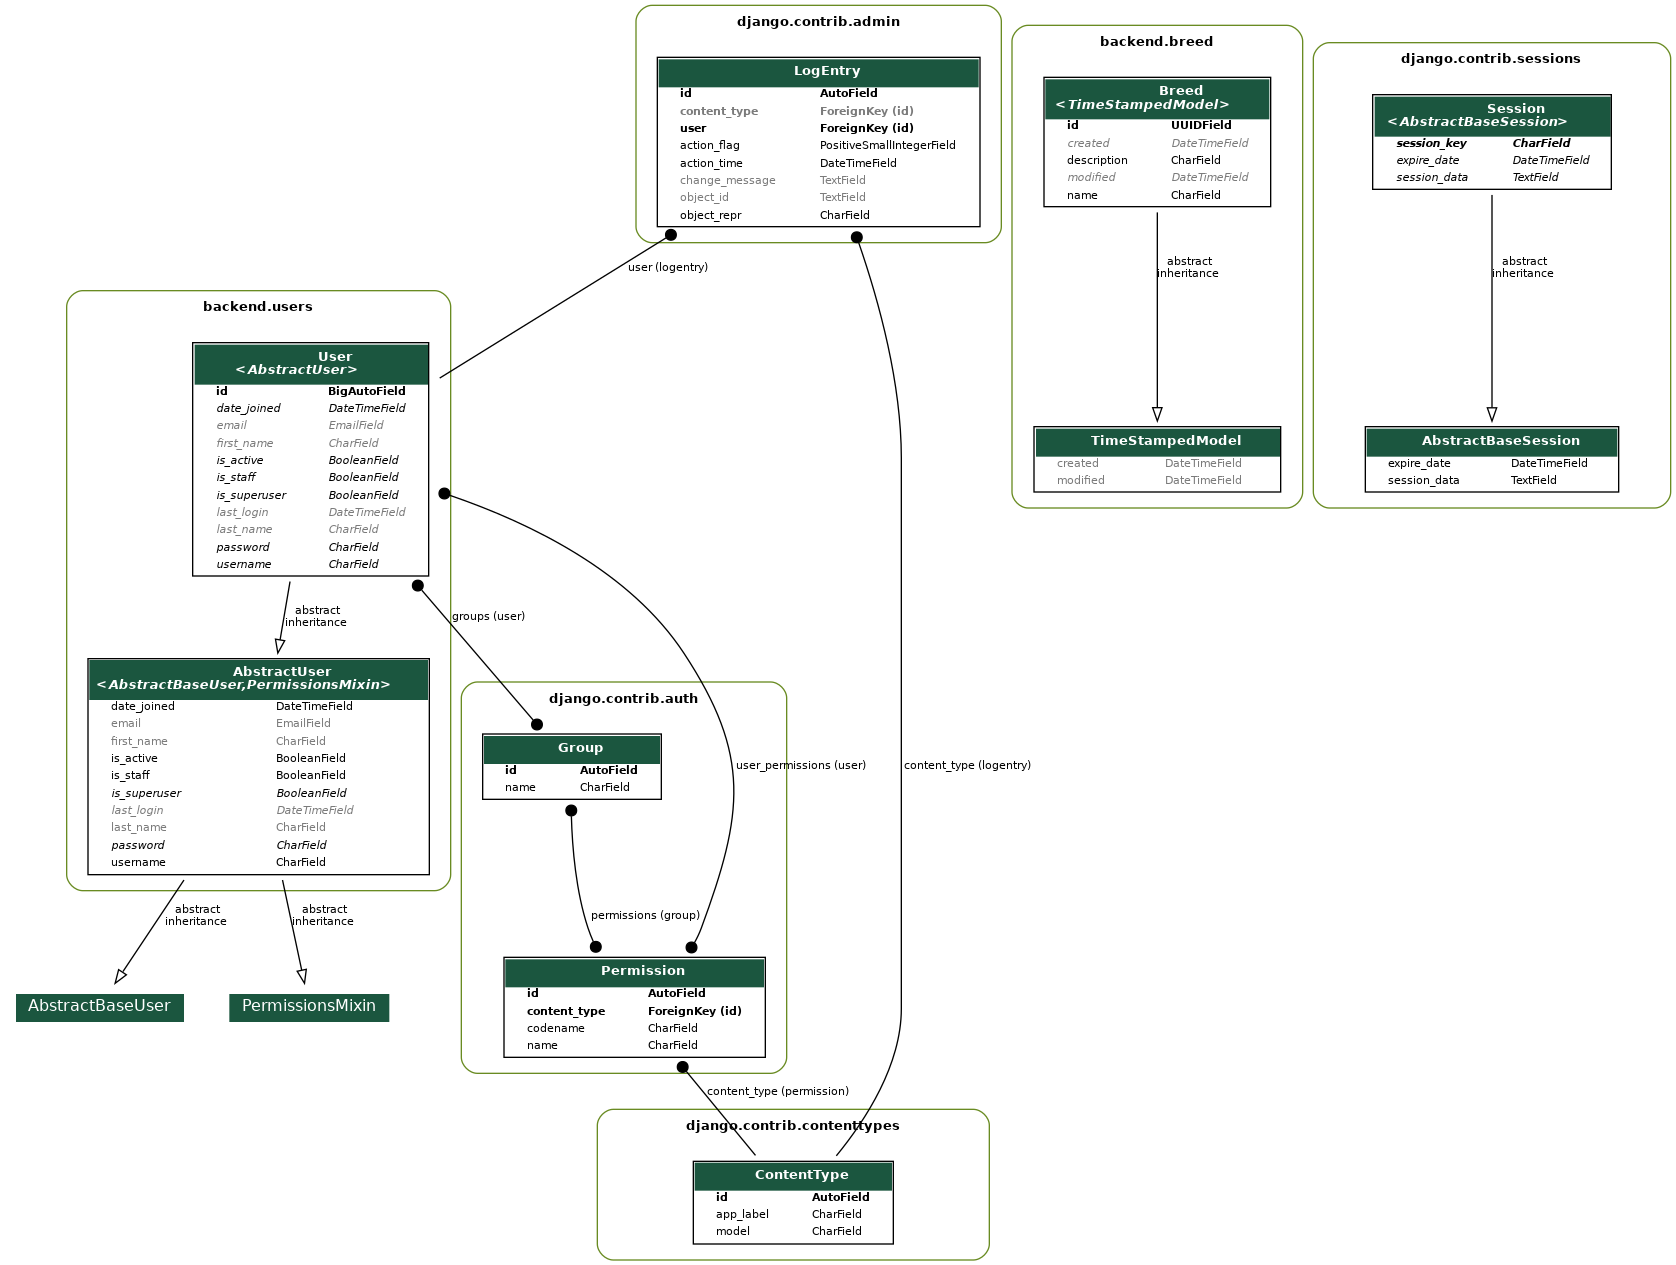
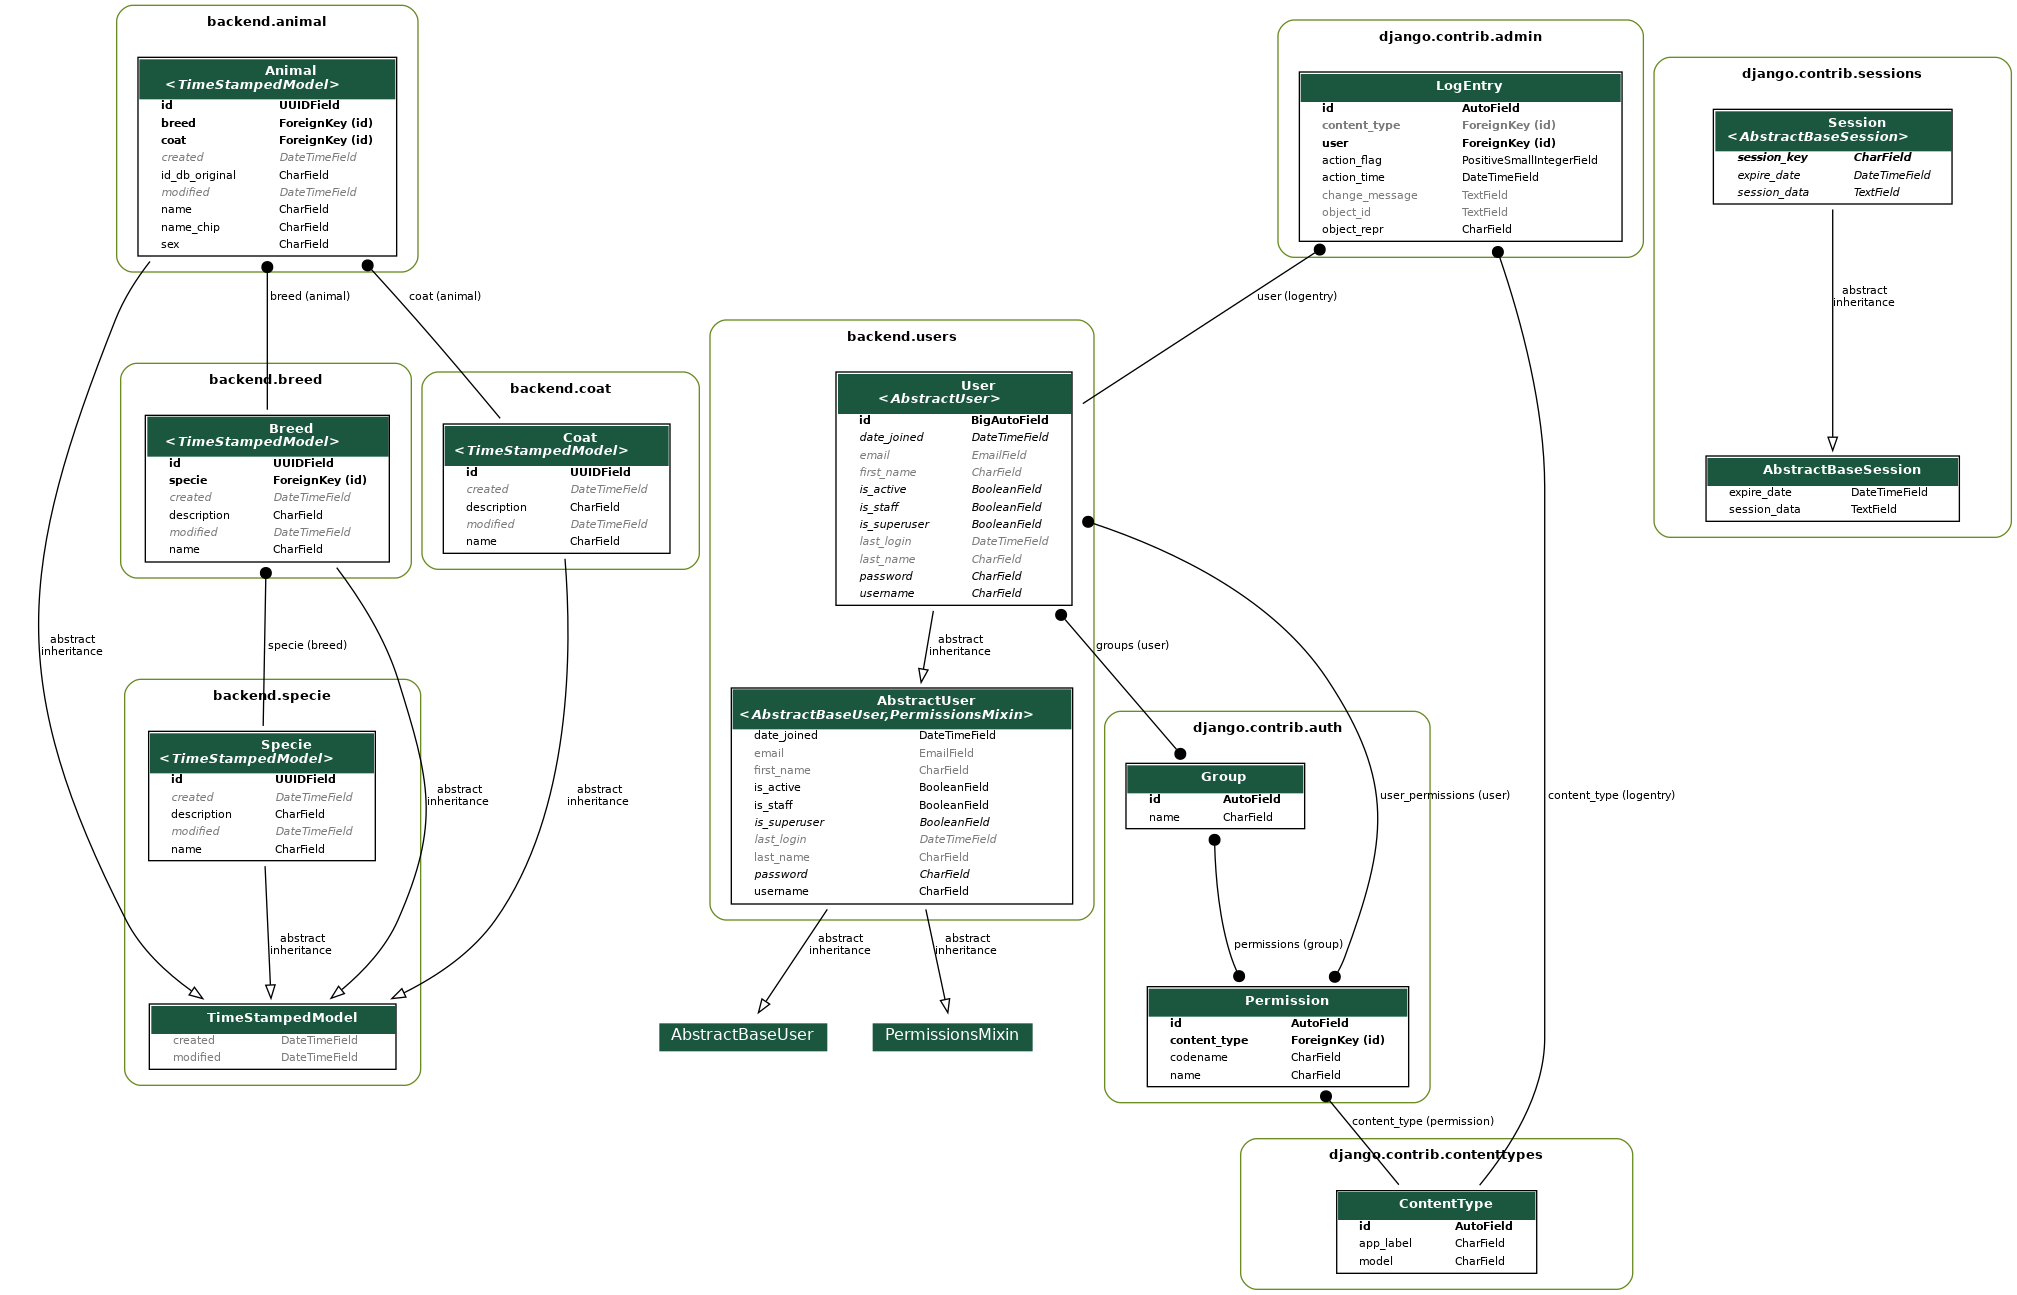
I changed the class diagram and added the owner, phone number and characteristics fields to the animal class.

diff --git a/backend/core/templates/base.html b/backend/core/templates/base.html
@@ -2,8 +2,8 @@
 {% load static %}
 <!DOCTYPE html>
 <html lang="en">
-
-{% load fontawesome_5 %}
+<!-- 
+{% load fontawesome_5 %} -->
 
 <head>
   <meta charset="utf-8">
@@ -23,7 +23,7 @@
   <!-- Font-awesome -->
   <!-- <link rel="stylesheet" href="https://maxcdn.bootstrapcdn.com/font-awesome/4.7.0/css/font-awesome.min.css"> -->
 
-  <!-- <link rel="stylesheet" href="{% static 'css/style.css' %}"> -->
+  <link rel="stylesheet" href="{% static 'css/style.css' %}">
 
   <!-- HTMX -->
   <!-- <script src="https://unpkg.com/htmx.org@1.8.2"></script> -->
@@ -43,6 +43,7 @@
   <!-- <script src="https://cdn.jsdelivr.net/npm/mustache@4.2.0/mustache.min.js"></script> -->
 
 
+
 </head>
 
 <!-- <body hx-headers='{"X-CSRFToken": "{{ csrf_token }}"}'> -->
@@ -53,11 +54,20 @@
   </div>
 
   <!-- jQuery -->
-  <!-- <script src="https://code.jquery.com/jquery-3.4.1.min.js"></script> -->
+  <script src="{% static 'js/jquery-3.7.1.min.js' %}"></script>
+
+  <!-- jQuery Mask Plugin -->
+  <script src="{% static 'js/jquery.mask.min.js' %}"></script>
   <!-- Bootstrap core JS -->
   <!-- <script src="https://cdn.jsdelivr.net/npm/popper.js@1.16.0/dist/umd/popper.min.js"></script> -->
   <!-- <script src="https://stackpath.bootstrapcdn.com/bootstrap/4.4.1/js/bootstrap.min.js"></script> -->
   <!-- <script src="https://unpkg.com/htmx.org@1.6.1"></script> -->
+
+  <script>
+    $(document).ready(function() {
+        $('.phone-mask').mask('(00) 00000-0000');
+    });
+</script>
 
 </body>
 

diff --git a/backend/animal/templates/animal/animal_form.html b/backend/animal/templates/animal/animal_form.html
@@ -24,6 +24,12 @@
                 {% render_field form.name class="form-control" hx-get="/animal/check_animal/" hx-trigger="keyup" hx-target="#animal-out" %}
                 <div id="animal-out"></div>
 
+                <label for="" class=" form-label pt-2">{{ form.owner.label }}</label>
+                {% render_field form.owner class="form-control" %}
+
+                <label for="" class=" form-label pt-2">{{ form.phone_number.label }}</label>
+                {% render_field form.phone_number|add_class:"phone-mask" class="form-control" %}
+
                 <label for="" class=" form-label pt-2">{{ form.id_db_original.label }}</label>
                 {% render_field form.id_db_original class="form-control" %}
 
@@ -38,6 +44,9 @@
 
                 <label for="" class="form-label pt-2">{{ form.sex.label }}</label>
                 {% render_field form.sex class="form-control" %}
+
+                <label for="" class=" form-label pt-2">{{ form.caracteristics.label }}</label>
+                {% render_field form.caracteristics class="form-control" %}
 
                 {{ form.errors.name }}
                 

diff --git a/backend/animal/templates/animal/animal_detail.html b/backend/animal/templates/animal/animal_detail.html
@@ -16,11 +16,14 @@
 
     <div class="container border p-2"> 
         <p><strong>Name:</strong>  {{ object.name }} </p>
+        <p><strong>Owner:</strong>  {{ object.owner }} </p>
+        <p><strong>Phone Number:</strong>  {{ object.phone_number }} </p>
         <p><strong>ID DB Origin:</strong>  {{ object.id_db_original }} </p>
         <p><strong>Name Chip:</strong> {{ object.name_chip }} </p>
         <p><strong>Breed:</strong> {{ object.breed }} </p>
         <p><strong>Coat:</strong> {{ object.coat }} </p>
-        <p><strong>sex:</strong> {{ object.sex }} </p>
+        <p><strong>Sex:</strong> {{ object.sex }} </p>
+        <p><strong>Caracteristics:</strong> {{ object.caracteristics }} </p>
     </div>
     <br>
 

diff --git a/backend/animal/migrations/0002_animal_caracteristics_animal_owner_and_more.py b/backend/animal/migrations/0002_animal_caracteristics_animal_owner_and_more.py
@@ -1,0 +1,49 @@
+# Generated by Django 4.2.10 on 2024-04-14 18:19
+
+from django.db import migrations, models
+import django.db.models.deletion
+
+
+class Migration(migrations.Migration):
+
+    dependencies = [
+        ('breed', '0002_breed_specie'),
+        ('coat', '0001_initial'),
+        ('animal', '0001_initial'),
+    ]
+
+    operations = [
+        migrations.AddField(
+            model_name='animal',
+            name='caracteristics',
+            field=models.CharField(default='', max_length=300),
+            preserve_default=False,
+        ),
+        migrations.AddField(
+            model_name='animal',
+            name='owner',
+            field=models.CharField(default='', max_length=50),
+            preserve_default=False,
+        ),
+        migrations.AddField(
+            model_name='animal',
+            name='phone_number',
+            field=models.CharField(default='', max_length=14),
+            preserve_default=False,
+        ),
+        migrations.AlterField(
+            model_name='animal',
+            name='breed',
+            field=models.ForeignKey(on_delete=django.db.models.deletion.CASCADE, to='breed.breed'),
+        ),
+        migrations.AlterField(
+            model_name='animal',
+            name='coat',
+            field=models.ForeignKey(on_delete=django.db.models.deletion.CASCADE, to='coat.coat'),
+        ),
+        migrations.AlterField(
+            model_name='animal',
+            name='sex',
+            field=models.CharField(choices=[('F', 'Feminino'), ('M', 'Masculino')], max_length=1),
+        ),
+    ]

diff --git a/backend/settings.py b/backend/settings.py
@@ -85,8 +85,8 @@ WSGI_APPLICATION = 'backend.wsgi.application'
 DATABASES = {
     'default': {
         'ENGINE': 'django.db.backends.sqlite3',
-        #'NAME': BASE_DIR / 'db.sqlite3',
-        'NAME': BASE_DIR / '/data/db.sqlite3',
+        'NAME': BASE_DIR / 'db.sqlite3',
+        #'NAME': BASE_DIR / '/data/db.sqlite3',
     }
 }
 
@@ -132,9 +132,18 @@ USE_TZ = True
 # Static files (CSS, JavaScript, Images)
 # https://docs.djangoproject.com/en/4.2/howto/static-files/
 
-STATIC_URL = 'static/'
+#STATIC_URL = 'static/'
 
-STATIC_ROOT = BASE_DIR.joinpath('staticfiles')
+#STATIC_ROOT = BASE_DIR.joinpath('staticfiles')
+
+STATIC_URL = '/static/'
+
+STATICFILES_DIRS = [
+    os.path.join(BASE_DIR, 'static')
+]
+
+# STATIC_ROOT = os.path.join(BASE_DIR, "static/")
+
 
 
 # Default primary key field type

diff --git a/backend/animal/models.py b/backend/animal/models.py
@@ -19,11 +19,14 @@ class Animal(TimeStampedModel):
     
     id = models.UUIDField(default=uuid.uuid4, unique=True, primary_key=True, editable=False)
     name = models.CharField(max_length=50)
+    owner = models.CharField(max_length=50)
+    phone_number = models.CharField(max_length=15)
     id_db_original = models.CharField(max_length=5)
     name_chip = models.CharField(max_length=15)
     breed = models.ForeignKey(Breed, on_delete=models.CASCADE)
     coat = models.ForeignKey(Coat, on_delete=models.CASCADE)
     sex = models.CharField(max_length=1, choices=SEXO_CHOICES)
+    caracteristics = models.CharField(max_length=300)
     
     
     class Meta:

diff --git a/backend/animal/forms.py b/backend/animal/forms.py
@@ -6,10 +6,15 @@ class AnimalForm(forms.ModelForm):
     
     class Meta:
         model = Animal
-        fields = ('name', 'id_db_original', 'name_chip', 'breed', 'coat', 'sex')
+        fields = ('name', 'owner', 'phone_number', 'id_db_original', 'name_chip', 'breed', 'coat', 'sex', 'caracteristics')
         
         widgets = {
             "breed": forms.Select(),
             "coat": forms.Select(),
             "sex": forms.Select(),
         }
+    
+    # def __init__(self, *args, **kwargs):
+    #     super().__init__(*args, **kwargs)
+    #     self.fields['phone_number'].widget.attrs.update({'class': 'mask-phone'})
+        

diff --git a/backend/animal/migrations/0003_alter_animal_phone_number.py b/backend/animal/migrations/0003_alter_animal_phone_number.py
@@ -1,0 +1,18 @@
+# Generated by Django 4.2.10 on 2024-04-14 22:08
+
+from django.db import migrations, models
+
+
+class Migration(migrations.Migration):
+
+    dependencies = [
+        ('animal', '0002_animal_caracteristics_animal_owner_and_more'),
+    ]
+
+    operations = [
+        migrations.AlterField(
+            model_name='animal',
+            name='phone_number',
+            field=models.CharField(max_length=15),
+        ),
+    ]
